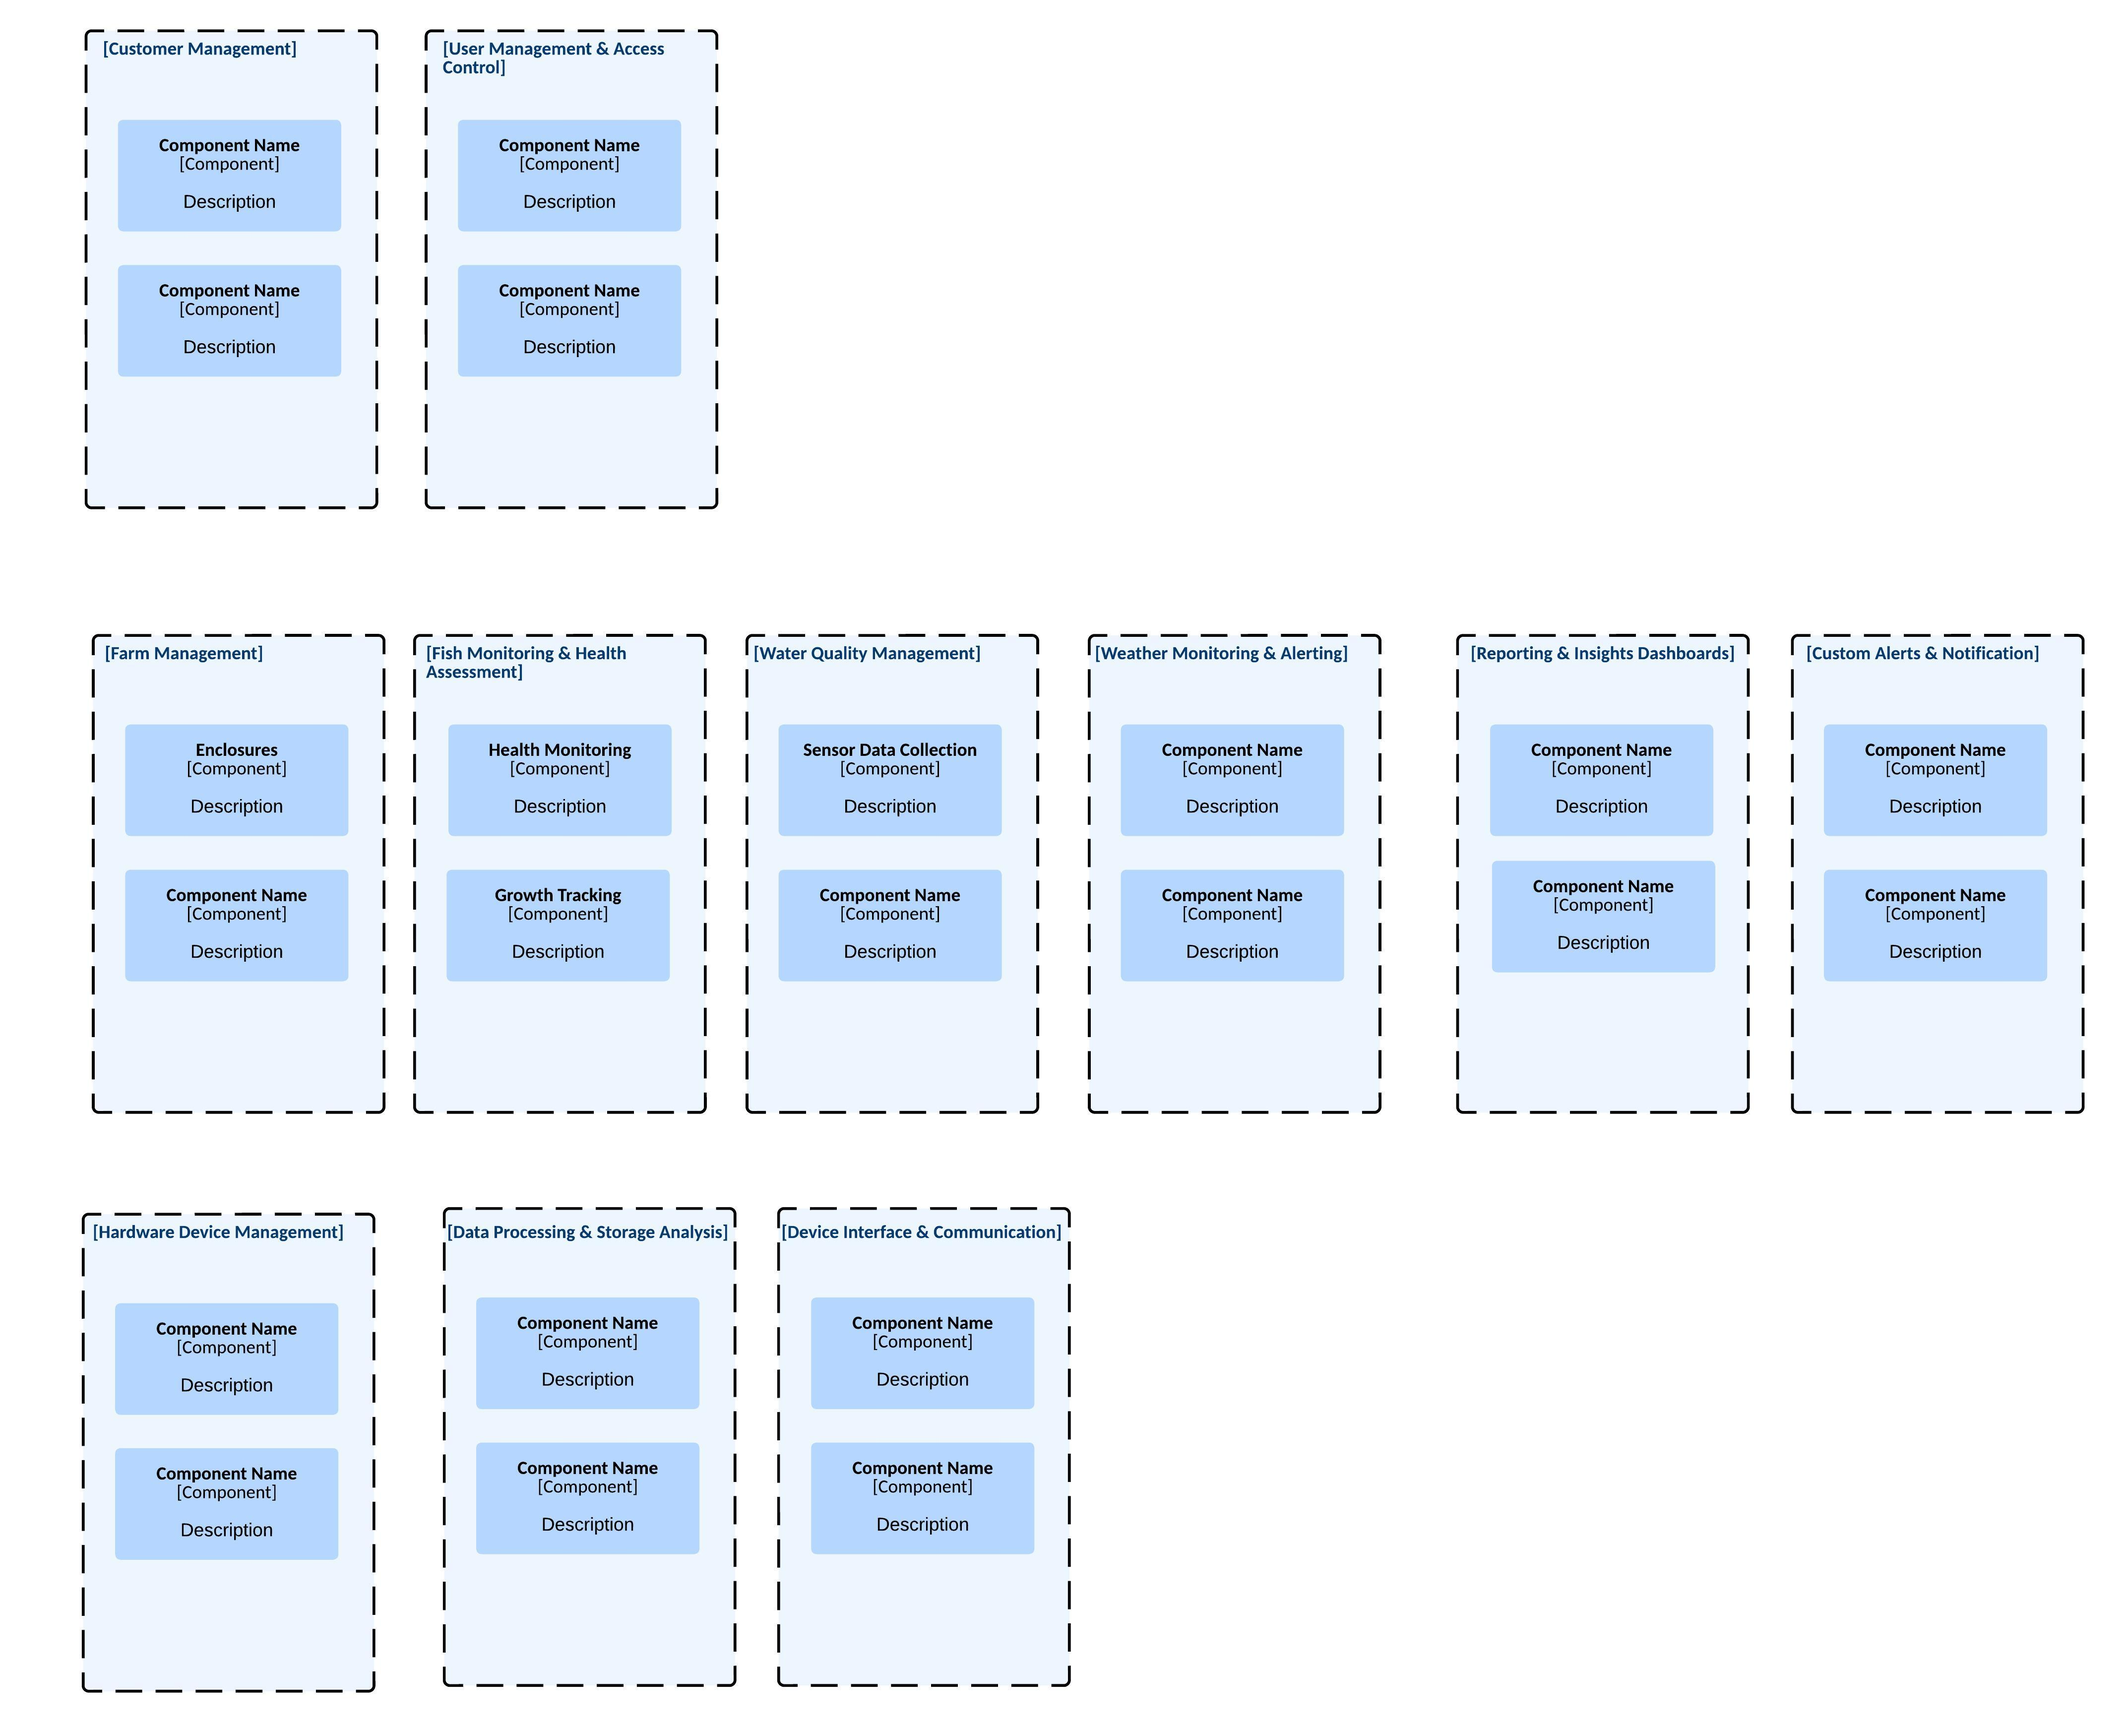
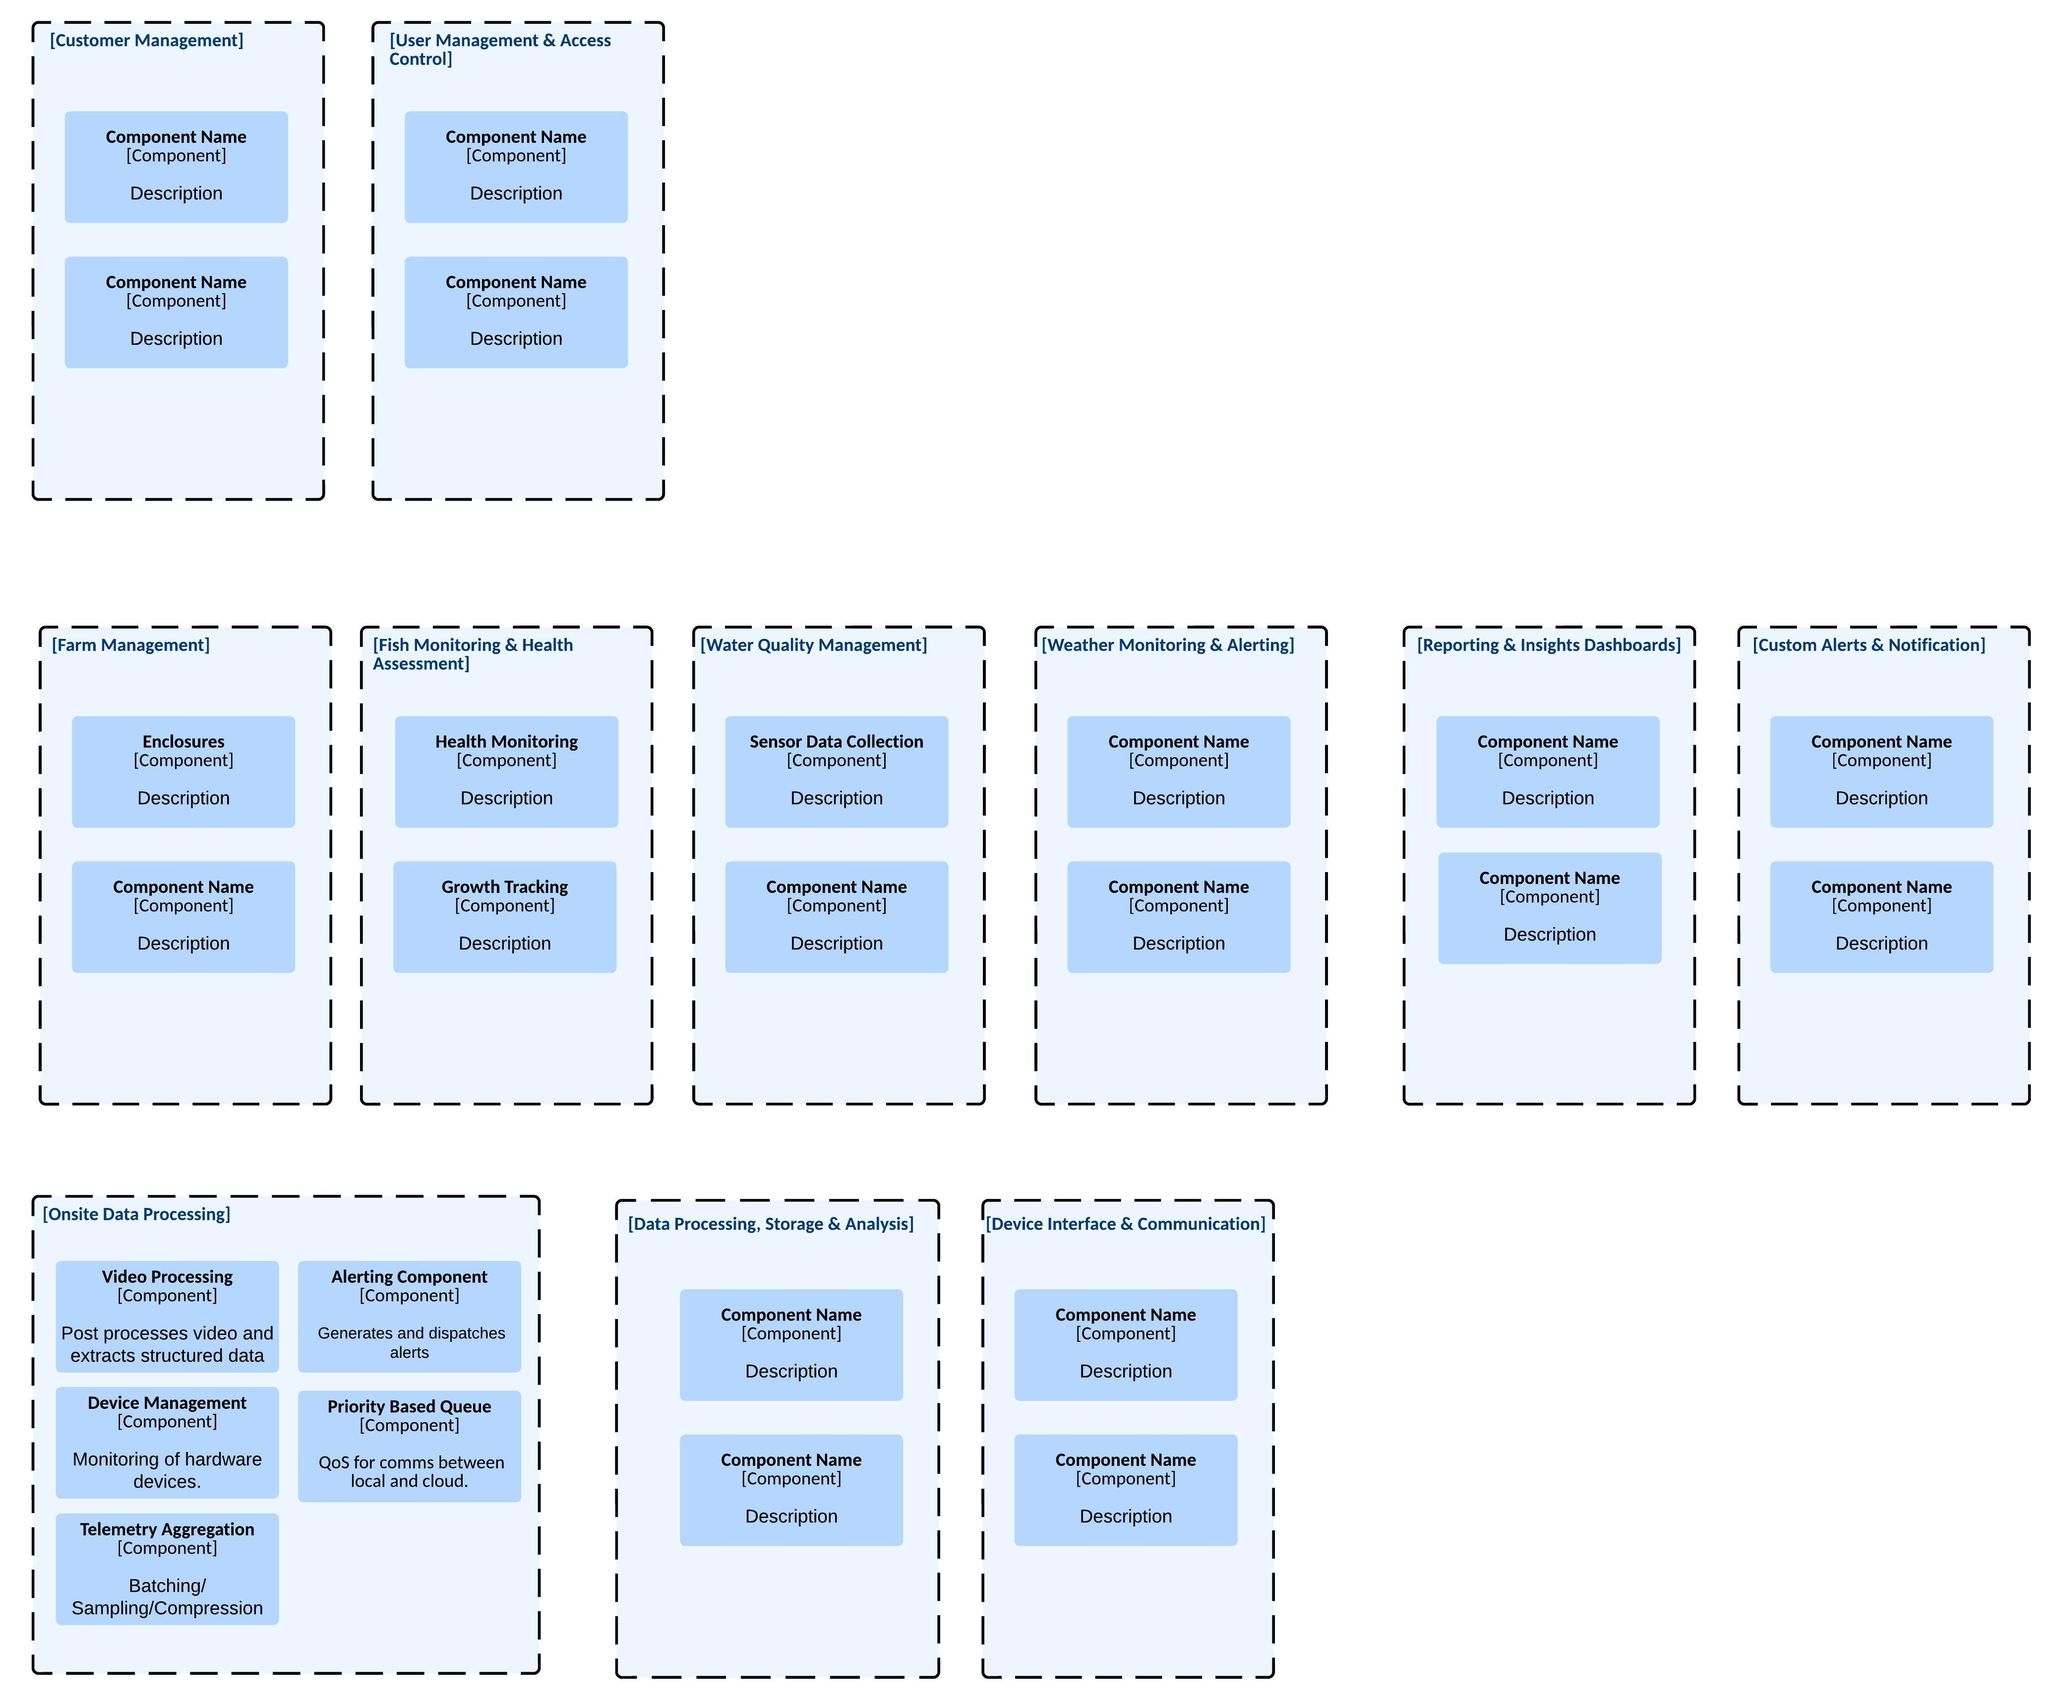
Added BC for onsite

diff --git a/README.md b/README.md
@@ -173,3 +173,9 @@ A bounded context canvas for Farm Management is shown below in Fig 4.
 ![Fishy Watch Farm Management Bounded Context](Diagrams/BoundedContexts/FarmManagement-BoundedContext.jpg "Fig. 4 - Fishy Watch Farm Management Bounded Context")
 
 **<p style="text-align: center;">Fig. 4 - Fishy Watch Farm Management Bounded Context Canvas </p>**
+
+A bounded context canvas for Onsite Data Processing is shown below in Fig 5.
+
+![Fishy Watch Onsite Processing Bounded Context](Diagrams/BoundedContexts/OnsiteDataProcessing-BoundedContext.jpg "Fig. 5 - Fishy Watch Onsite Processing Bounded Context")
+
+**<p style="text-align: center;">Fig. 5 - Fishy Watch Onsite Processing Bounded Context Canvas </p>**
